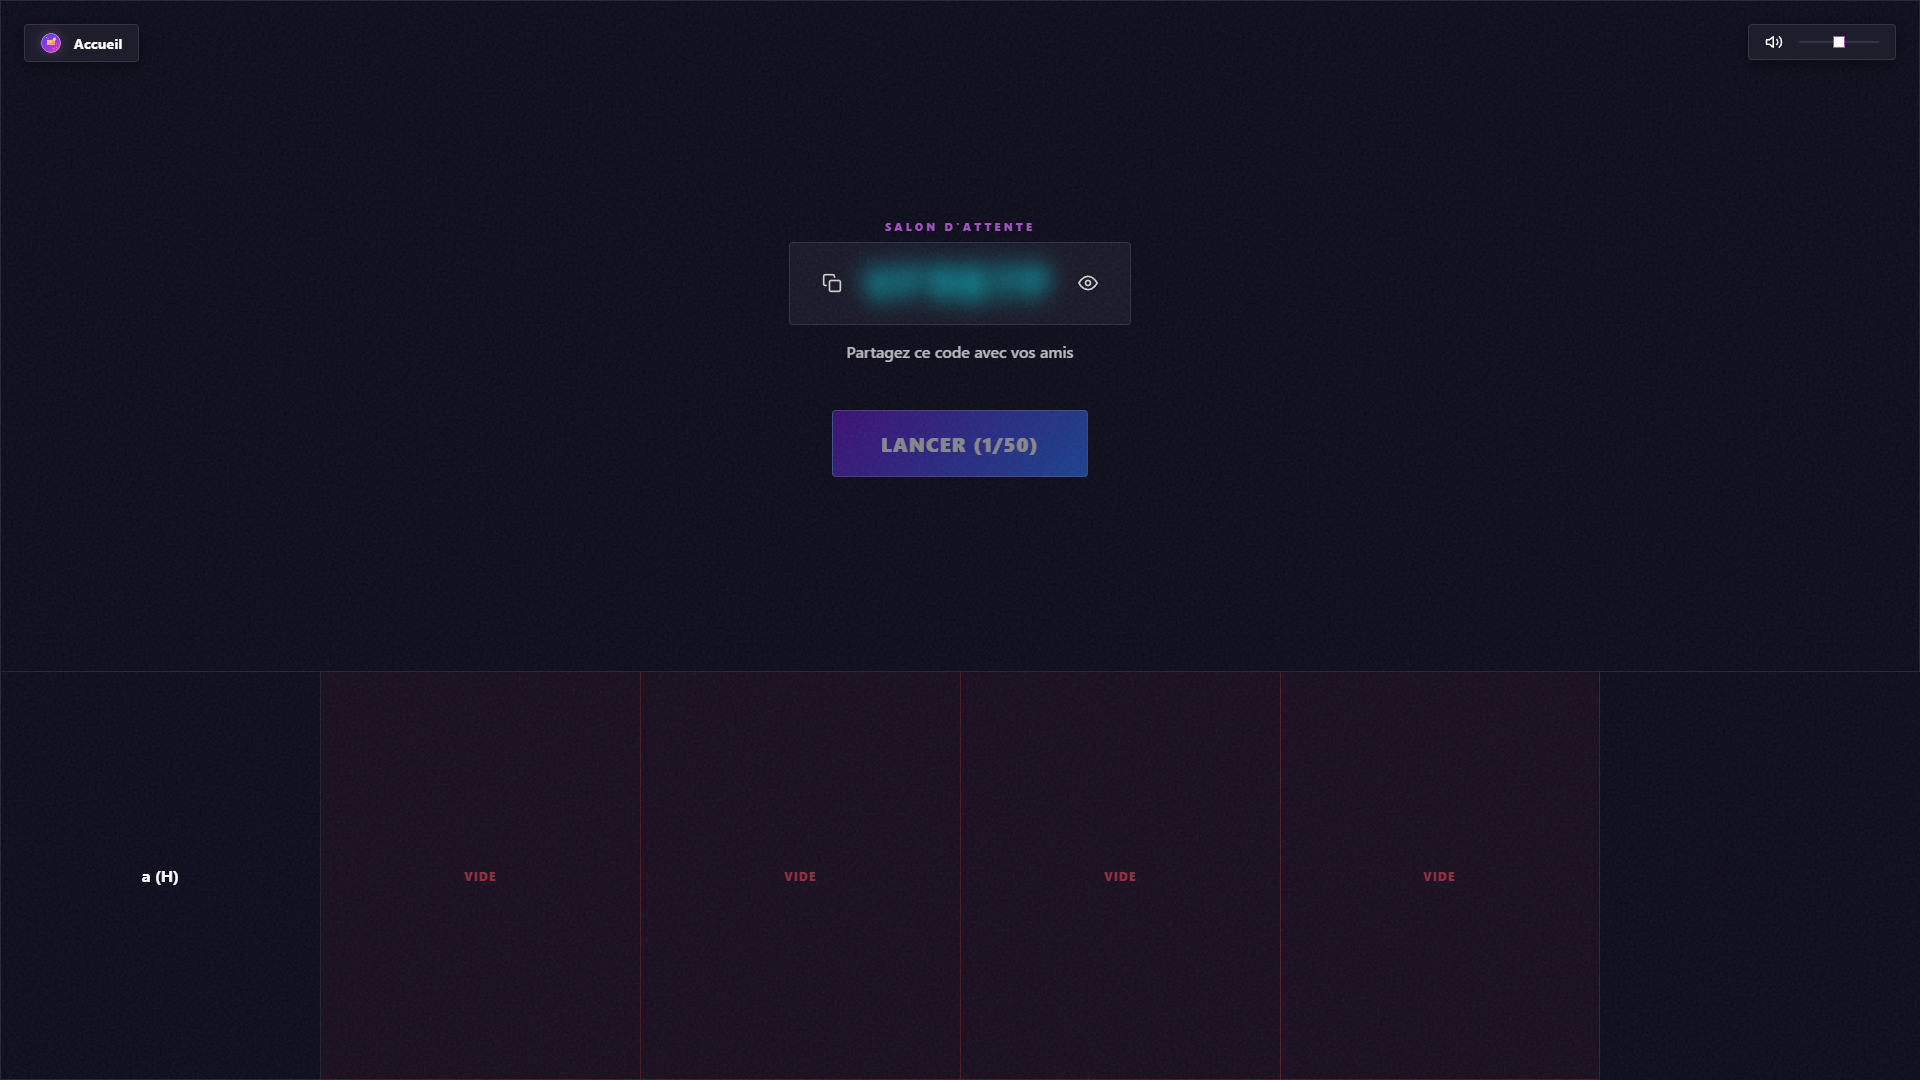
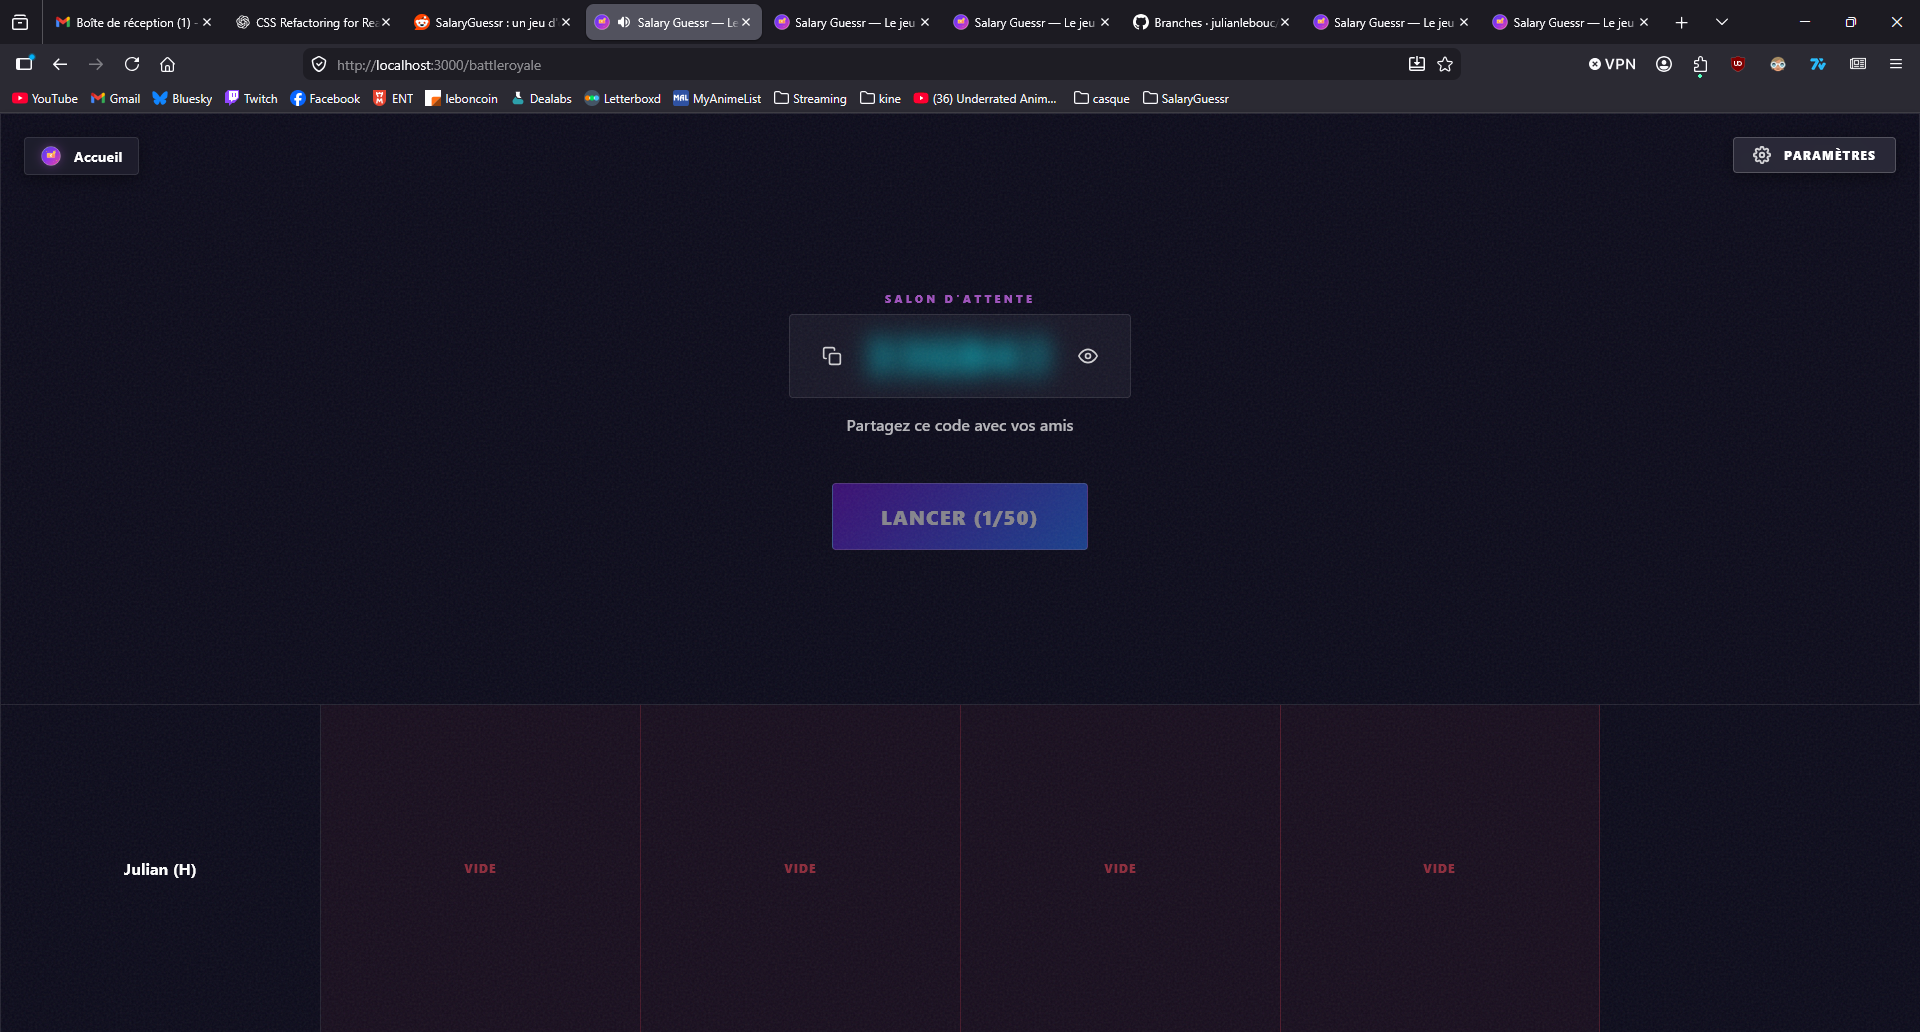
document v0.2.0-beta features

diff --git a/README.md b/README.md
@@ -23,6 +23,8 @@ SalaryGuessr is an interactive web game where you test your knowledge of salarie
 
 ## Game Modes
 
+![Mode Selection](screenshots/mode-select.png)
+
 ### Classic Mode
 Test your knowledge by estimating the monthly gross salary of real job offers. Score points based on your precision across multiple rounds.
 ![Classic Mode](screenshots/classic.png)
@@ -34,6 +36,18 @@ A fast-paced mode where you compare two job offers. Predict whether the next off
 ### Battle Royale
 Compete against other players in real-time. Everyone guesses the salary of the same job offer, and the player with the furthest estimate is eliminated each round.
 ![Battle Royale](screenshots/battleroyale.png)
+
+## Statistics & Settings
+
+SalaryGuessr now features a comprehensive statistics dashboard and a real-time settings system.
+
+### Global Statistics
+Track global trends and community performance with the new statistics dashboard.
+![Statistics](screenshots/stats.png)
+
+### Real-time Settings
+Customize your experience with adjustable volume and salary unit preferences (Monthly/Yearly).
+![Settings](screenshots/settings.png)
 
 ## Prerequisites
 

diff --git a/CHANGELOG.md b/CHANGELOG.md
@@ -5,6 +5,16 @@ All notable changes to this project will be documented in this file.
 The format is based on [Keep a Changelog](https://keepachangelog.com/en/1.0.0/),
 and this project adheres to [Semantic Versioning](https://semver.org/spec/v2.0.0.html).
 
+## [0.2.0-beta] - 2026-05-15
+
+### Added
+- **Game Settings**: Implemented a real-time settings system allowing users to toggle between monthly/yearly salary units and adjust global volume.
+- **Backend Tests**: Comprehensive test suite using Pytest covering API endpoints, salary parsing logic, and offer pool management.
+
+### Improved
+- **Salary Parsing**: Refactored extraction logic to accurately handle hourly wages, multi-rate offers, and improved noise filtering (e.g., ignoring technical codes like "CCN 66").
+- **Offer Pool**: Optimized the job offer ingestion and filtering pipeline for better distribution and data quality.
+
 ## [0.1.1-beta] - 2026-05-15
 
 ### Fixed
